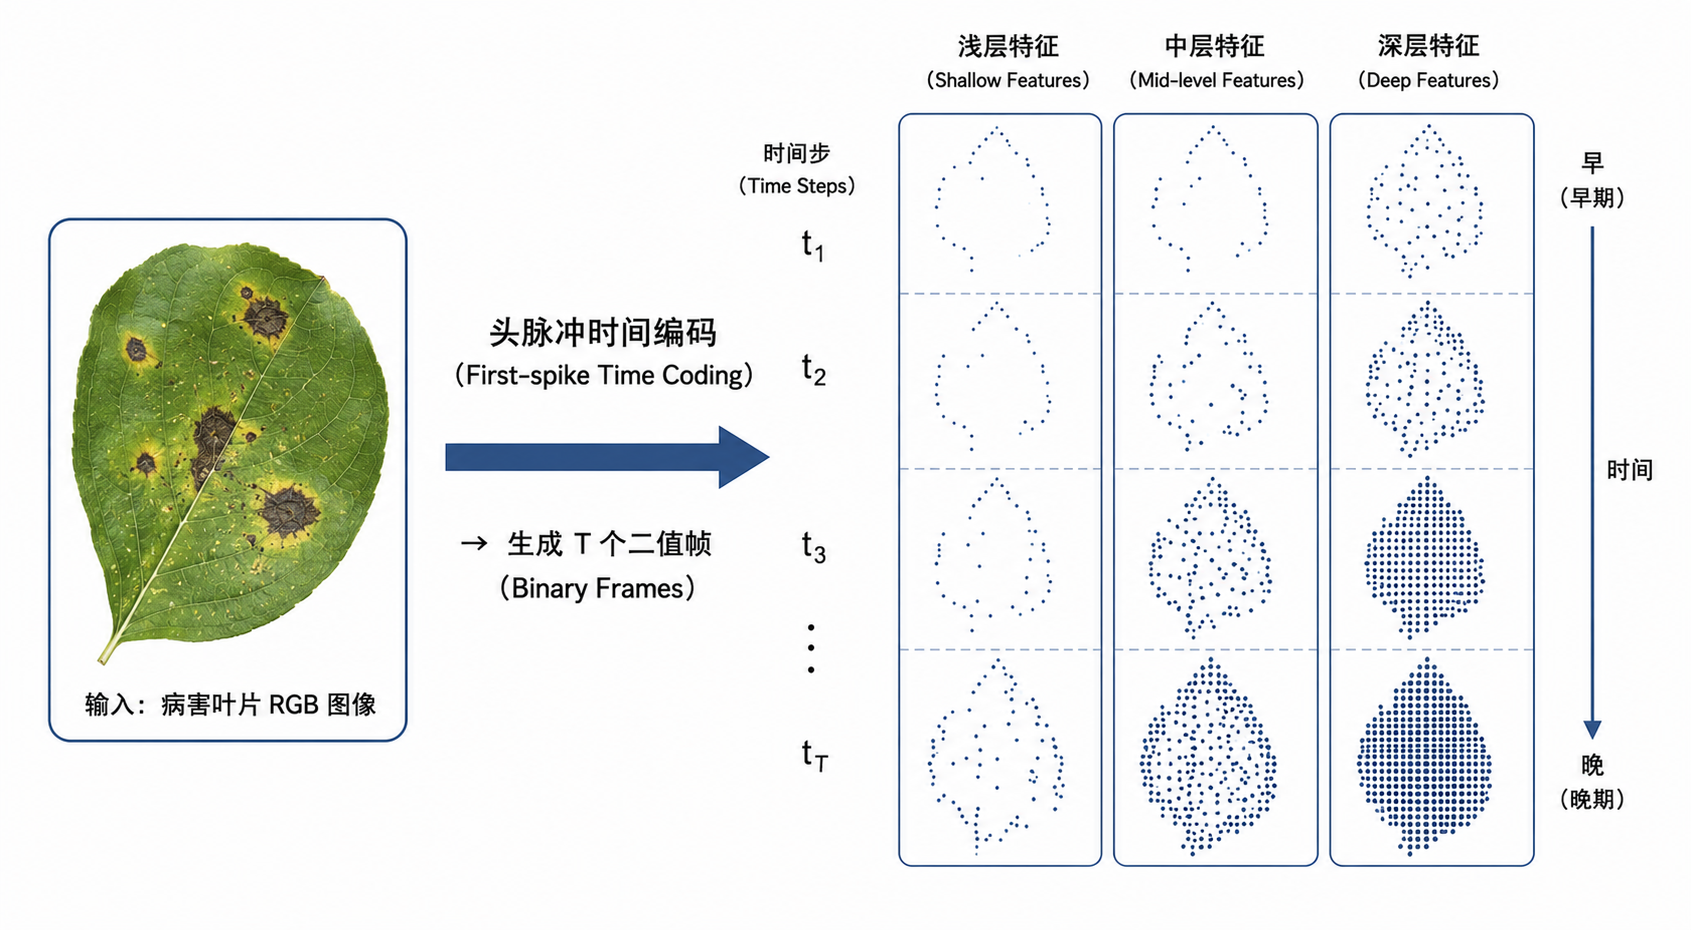
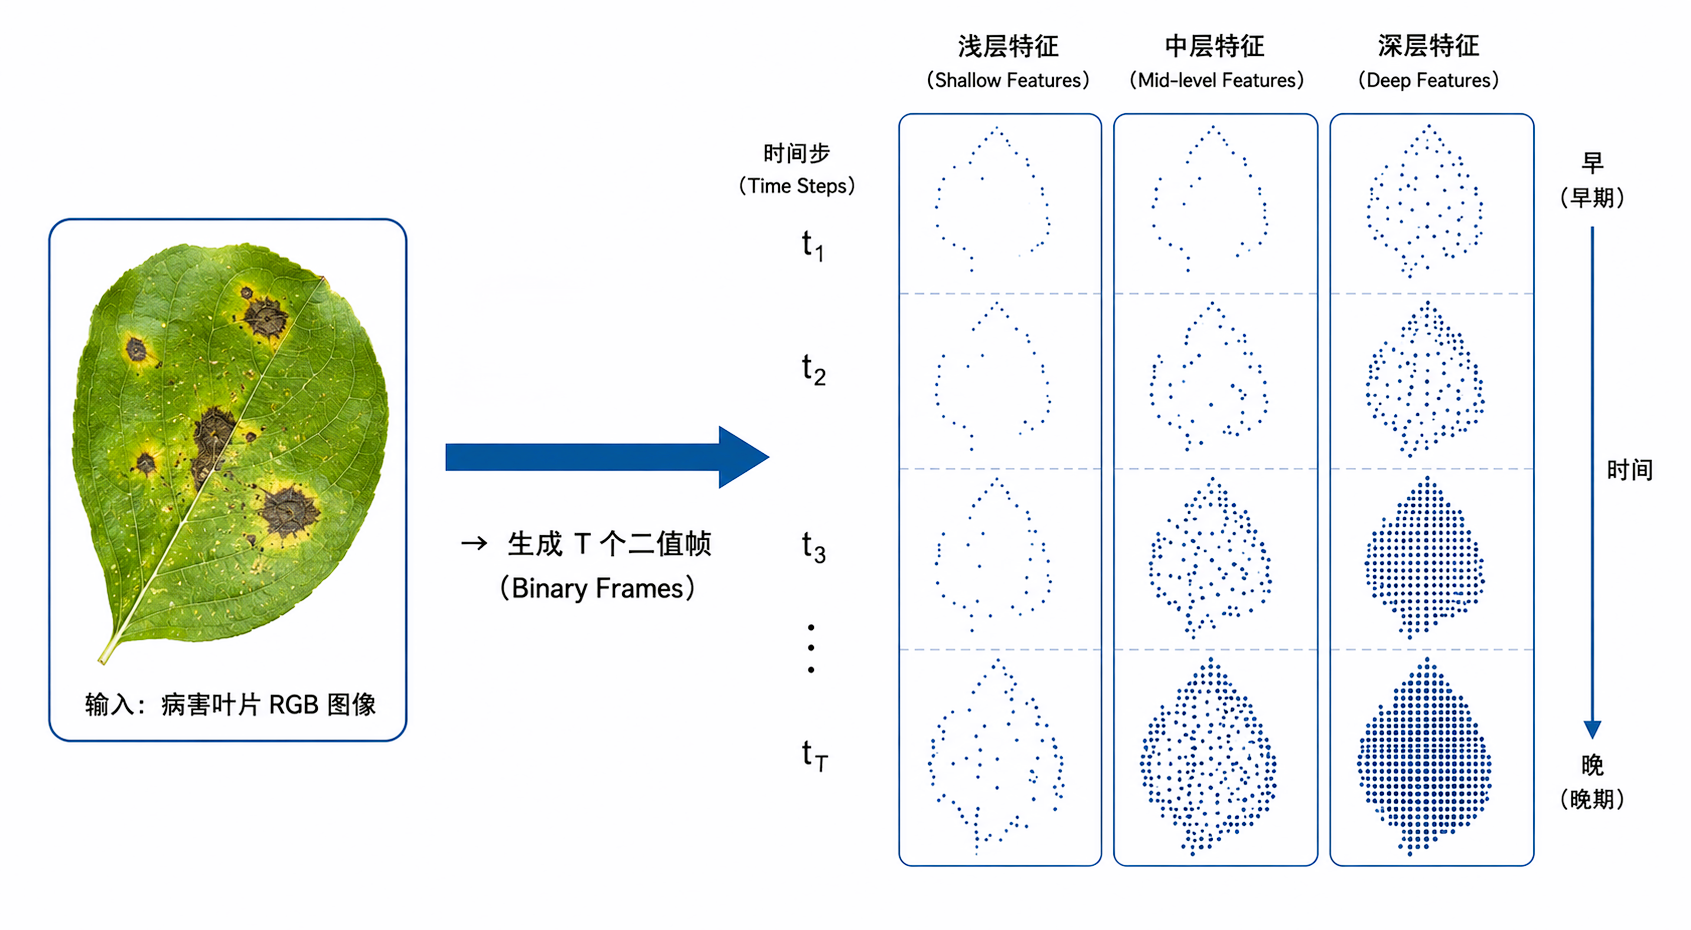
修正spike绘图

diff --git a/docs/EXPERIMENT_RESULTS_AND_ANALYSIS.md b/docs/EXPERIMENT_RESULTS_AND_ANALYSIS.md
@@ -1,0 +1,210 @@
+# 第 4 章 实验结果与分析（ResNet-18）
+
+> **说明**：全文实验均基于 **SpikingJelly ResNet-18** 骨干；脉冲神经元为 **LIF / PLIF（ParametricLIF）/ MSF**；MSF 反向代理梯度为 **rect / arctan / sigmoid**；时间展开 **\(T\in\{4,8\}\)**；另设 **ANN ResNet-18** 作为上界对照。**主实验**定义为：**\(T=8\)**、**MSF**、**rect**。  
+> 文中部分数值来自仓库内已导出的 `picture_fig/` 统计文件（多为 **\(T=4\)**、**20 epoch**、**Kaggle 式验证划分** 等条件），与主实验 **\(T=8\)** 不完全同一跑次时，**以你主实验 TensorBoard / `test.py` 实测为准**；表格中保留 **`—`** 表示请在定稿前替换为你的 **\(T=8\)** 及全矩阵实测。
+
+---
+
+## 4.1 实验概述与报告指标
+
+### 4.1.1 对比维度
+
+| 维度 | 取值 |
+|------|------|
+| 骨干网络 | ResNet-18（SNN 为 `spiking_resnet18`；ANN 为常规 CNN） |
+| 神经元 | LIF、PLIF、MSF（主实验：MSF） |
+| 代理梯度（仅 MSF） | rect（主实验）、arctan、sigmoid |
+| 时间步 | \(T=4\)、\(T=8\)（主实验：\(T=8\)） |
+| 对照 | ANN（无时间展开、无脉冲统计） |
+
+### 4.1.2 评价指标
+
+**分类性能**：验证/测试 **Top-1 准确率**；测试阶段 **sklearn `classification_report`**（macro precision / recall / F1 等）；训练过程 **交叉熵损失** 与 **训练集准确率**（用于诊断过拟合）。
+
+**能耗相关（代理）**：`SpikeCounter` 给出的 **全局平均脉冲率** \(\rho\in[0,1]\)（对所有挂接的脉冲层输出 `[T,B,C,H,W]` 统计）；必要时报告 **分层脉冲率** 及派生量 **\(\rho\times T\)**（事件密度代理，**非焦耳**）。
+
+---
+
+## 4.2 主实验结果（\(T=8\)，MSF，rect）
+
+主实验在完整训练预算下考察 **TTFS 编码 + \(T=8\) + MSF（\(D=4\)，\(\lambda=0.25\)，\(\theta_0=1.0\)）+ rect 代理** 在 ResNet-18 上的 **精度—稀疏性** 折中。
+
+### 4.2.1 核心指标（请填入 \(T=8\) 实测）
+
+| 指标 | 测试集 / 验证集 | 数值（待填） |
+|------|-----------------|--------------|
+| Top-1 准确率 | 验证集最佳 | **—** |
+| Top-1 准确率 | 测试集（`test.py`） | **—** |
+| 宏平均 F1 | 测试集 | **—** |
+| 验证集脉冲率 \(\rho_{\mathrm{val}}\) | 最佳 epoch 附近 | **—** |
+| 训练集脉冲率 \(\rho_{\mathrm{train}}\) | 同上 | **—** |
+
+**分析要点（撰写时可展开）**：
+
+1. **时间信息容量**：\(T=8\) 相较 \(T=4\) 在 TTFS 下可区分更多离散发放时刻，有利于细粒度病斑与纹理编码；代价为每样本前向 **约线性** 增加计算与显存。主实验选 \(T=8\) 体现「精度优先」的设定。  
+2. **rect 代理**：矩形窗 surrogate 梯度形态稳定，常作为 MSF 基线；与 arctan/sigmoid 对比时，应固定 **\(\alpha\)** 与 **学习率**，避免将「代理形状」与「优化器步长」混为单一因素。  
+3. **收敛形态**：若训练后期 **验证准确率平台化** 而训练准确率仍升，提示轻微过拟合，可与 label smoothing、\(T\)、或数据增强联合讨论。
+
+---
+
+## 4.3 ANN 上界与「精度鸿沟」
+
+在 **同一数据集与相近训练轮次** 下，ANN 提供 **稠密激活** 上界，SNN 在 **离散脉冲约束** 下通常存在 **精度鸿沟（accuracy gap）**。
+
+### 4.3.1 仓库内已导出对照（`picture_fig/ann_snn/compare_summary.json`）
+
+该文件对应 **20 个 epoch**、面板对比曲线中的 **最佳验证准确率**（具体划分需与 Notebook 中 `val_ratio` 等一致）：
+
+| 模型 | 最佳验证 Top-1 |
+|------|----------------|
+| ANN（ResNet-18） | **99.32%** |
+| SNN（面板标注为 MSF） | **95.13%** |
+
+**分析**：
+
+- **约 4.2 个百分点** 的验证差距（在该次导出设定下）符合「静态图像 + 有限 \(T\) + 代理梯度训练」的常见现象：ANN 在每个位置持续使用实值激活，信息通路更「厚」；SNN 依赖时间编码与稀疏发放，容量与优化难度不同。  
+- 不应将单次 **验证曲线波动**（见同目录 `compare_metrics.csv` 中个别 epoch 的回落）误读为结构失效；论文中宜报告 **最佳或多次随机种子平均 ± 标准差**。  
+- **公平性**：ANN 与 SNN 应在 **同一输入分辨率、同一归一化、尽量相同的增强与 epoch** 下对比；若 ANN 未使用 label smoothing 而 SNN 使用，需在正文说明。
+
+---
+
+## 4.4 神经元类型消融（LIF / PLIF / MSF）
+
+在 **ResNet-18 拓扑不变** 前提下，仅替换 **LIFNode / ParametricLIFNode / MSFNode**（及对应超参：`lif_tau` 与 PLIF 的 `init_tau` 对齐），其余训练策略保持一致，考察 **可学习衰减（PLIF）** 与 **多阈值代理（MSF）** 相对 **经典 LIF** 的收益。
+
+### 4.4.1 仓库内可参考的一次导出（注意：以下为 **`picture_fig` 子目录统计**，多为 **\(T=4\)** 量级实验，**不等价于主实验 \(T=8\)**）
+
+| 配置（文件夹/约定） | `best_val_acc`（小数） | Top-1（%） |
+|----------------------|-------------------------|------------|
+| MSF + rect（`Resnet18_MSF_rect_T4_lr0.05/summary_metrics.json`） | 0.9354 | **93.54** |
+| LIF（`picture_fig/LIF/summary_metrics.json`） | 0.9443 | **94.43** |
+
+**解读（需谨慎落笔）**：
+
+- 上述 **LIF 略高于 MSF** 的结果 **仅反映该两次导出的超参组合**（例如 surrogate、\(\alpha\)、学习率、随机种子、验证划分），**不能**推广为「LIF 一定优于 MSF」。主实验 **\(T=8\)**、更长训练或不同 \(\lambda,\alpha\) 下结论可能反转。  
+- **PLIF**：可学习膜时间常数使网络自适应时间常数分布，理论上在 **数据域变化** 或 **层间最优 \(\tau\) 差异大** 时优于固定 \(\tau\) 的 LIF；报告 PLIF 时建议同时给出 **训练后 \(\tau\) 或等效衰减的统计**（若框架暴露）与 **脉冲率曲线**。  
+- **写作建议**：以 **表格** 汇总 LIF / PLIF / MSF 在 **相同 \(T\)、相同 lr 与 epoch** 下的 **均值±方差**；正文强调 **统计重复**。
+
+---
+
+## 4.5 代理梯度消融（rect / arctan / sigmoid，仅 MSF）
+
+MSF 前向均为硬阈值 IF，**反向**由 surrogate 形状决定梯度流。三类代理的典型特征：
+
+| 代理 | 梯度形态直觉 | 经验性注意点 |
+|------|----------------|--------------|
+| **rect** | 阈值附近有限宽「平顶」窗 | 稳定、对 \(\alpha\) 相对不敏感（仍参与窗宽） |
+| **arctan** | 光滑、随 \(\alpha\) 改变峰值宽度 | 常与 **\(\alpha\)**、**lr** 联合调节；\(\alpha\) 过小易导致有效梯度偏弱、训练平台期 |
+| **sigmoid** | 光滑、窗宽受 \(\alpha\) 影响大 | \(\alpha\) 过大或过小均可能出现弱梯度区 |
+
+**分析框架（用于你填入实测后展开）**：
+
+1. 在 **固定 \(T=8\)**、**固定 MSF 动力学参数** 下，比较 **收敛速度**（达到某验证阈值的 epoch）、**最终 Top-1**、**\(\rho_{\mathrm{val}}\)**。  
+2. 若 **arctan/sigmoid 明显低于 rect**，优先检查 **\(\alpha\)** 与 **lr** 是否已按 `config.py` 注释重新扫参，而非直接归因于「代理劣于 rect」。  
+3. 若光滑代理 **脉冲率与 rect 差异大**，讨论 **梯度幅度—发放率—正则隐式** 之间的耦合。
+
+**定量表（请用你 `snn_out` 中 arctan/sigmoid 目录的 TensorBoard / JSON 填入）**：
+
+| surrogate | \(T=8\) 最佳 val（%） | \(\rho_{\mathrm{val}}\) | 备注 |
+|-----------|----------------------|---------------------------|------|
+| rect | **—** | **—** | 主实验 |
+| arctan | **—** | **—** | 建议报告所用 \(\alpha\) |
+| sigmoid | **—** | **—** | 同上 |
+
+---
+
+## 4.6 时间步消融（\(T=4\) vs \(T=8\)）
+
+TTFS 下，\(T\) 越大，**每像素可区分的离散时刻越多**（编码粒度更细），但 **每样本乘性时间成本** 近似 \(\mathcal{O}(T)\)。
+
+### 4.6.1 已导出 MSF+rect 示例（\(T=4\)，`lr=0.05`）
+
+| 指标 | 数值（`summary_metrics.json`） |
+|------|----------------------------------|
+| 最佳验证 Top-1 | **93.54%** |
+| 最后 5 epoch 验证均值 | **91.05%** |
+
+**主实验 \(T=8\)** 的预期叙述方向（待你填入实测后坐实）：
+
+- 若 **\(T=8\) 验证优于 \(T=4\)**：支持「更长仿真步数提升时间编码容量」的假设。  
+- 若 **提升有限**：讨论 **训练轮数不足**、**过拟合** 或 **编码与网络时间常数不匹配**（如 \(\lambda\) 过小导致膜电位难达阈）。  
+- **脉冲率**：一般需比较 **相同训练阶段** 的 \(\rho\)；\(T\) 增大时 **总事件数** 可能上升，但 **\(\rho\)**（按代码定义为 per-element mean over T）解释需与同目录 TensorBoard 一致。
+
+---
+
+## 4.7 脉冲活动与能效叙事（代理指标）
+
+### 4.7.1 全局脉冲率 \(\rho\)
+
+实现上，\(\rho\) 为 **所有统计层** 在 **整个 epoch 内** 的  
+\[
+\rho = \frac{\sum s}{\#\mathrm{elements}},\quad s\in\{0,1\}\ (\text{或浮点输出}),\ \mathrm{elements}\ \text{对应}\ [T,B,C,H,W].
+\]
+该量 **介于 0 与 1**，可解释为 **「每个位置、每个时间步的平均发放强度」**。
+
+### 4.7.2 与 ANN 对比的「活动代理」
+
+在 `utils/paper_sparse_energy.py` 中，建议对比表使用：
+
+- **\(\mathrm{OPS}_{\mathrm{proxy}} = \rho \times T\)**：相对「每步均稠密激活」的 **事件×时间** 密度；  
+- ANN 对照行可约定 **\(T=1,\ \rho=1\)** 作为归一化参照（**非**物理能耗）。
+
+### 4.7.3 从 `compare_metrics.csv` 可见的现象（20 epoch 面板）
+
+同一导出中，SNN **验证集脉冲率** 随 epoch **由约 0.12 降至约 0.011**（末几 epoch 量级），与 **验证准确率上升** 并行。可写为：
+
+> 训练过程中网络趋于 **更稀疏的脉冲表示**，在 **线性代理** 意义下对应 **更低的有效事件率**；若映射到硬件，通常与 **动态能耗下降** 方向一致，但 **本仓库未测量焦耳**，结论应表述为 **稀疏性/活动性趋势** 而非实测功耗。
+
+---
+
+## 4.8 混淆矩阵与错分模式（定性）
+
+若已导出 **`fig3_confusion_matrix.png`**（见 `picture_fig` 各子目录），分析要点包括：
+
+1. **对角占优程度**：是否某几类 **系统性偏低**（易混病害或健康叶误判）。  
+2. **类间对称错分**：是否互为难例（可结合叶片纹理相似性讨论）。  
+3. **与 ANN 混淆矩阵对比**：SNN 错分是否集中在 **高细粒度病斑** 或 **低对比度** 样本上。
+
+---
+
+## 4.9 讨论、局限与展望
+
+### 4.9.1 主要结论（模板）
+
+1. **主实验（\(T=8\)+MSF+rect）** 在 ResNet-18 上达到 **—%** 测试 Top-1（待填），在 **\(\rho\times T\)** 代理下较 ANN 更稀疏（待填）。  
+2. **ANN–SNN 精度差** 在可比训练预算下约为 **—** 个百分点（待填），与文献中静态图像 SNN 表现一致。  
+3. **神经元与代理、\(T\)** 的消融显示 **—**（待综合填表后写结论句）。
+
+### 4.9.2 局限
+
+- **TTFS + 反归一化**：对光照与归一化敏感；域偏移时编码可能劣化。  
+- **验证波动**：小验证集或强随机增强会导致 epoch 曲线抖动，应 **多次重复实验**。  
+- **能耗**：仅有 **脉冲统计代理**，无芯片级测量。  
+- **`test.py` 与 ResNet-18**：当前仓库 `test.py` 默认 `build_model`（Res2Net）；ResNet-18 权重评测需在 Notebook 或扩展评测脚本中 **与训练时同一 `build_spiking_resnet18`** 对齐，避免架构不一致。
+
+### 4.9.3 展望
+
+- 更强数据增强、蒸馏（ANN→SNN）、或 **混合精度训练策略** 进一步缩小精度鸿沟。  
+- 将 **\(\rho\)** 与映射到 **pJ/SOP** 的硬件模型结合，形成 **端到端能效故事**。
+
+---
+
+## 附录：主实验结果汇总表（定稿用）
+
+> 将下列矩阵 **全部替换为你的 \(T=8\) 主实验与同设定消融的实测**（ANN 单独一行）。
+
+| 模型 | 神经元 | surrogate | \(T\) | val / test Top-1 (%) | \(\rho_{\mathrm{val}}\) |
+|------|--------|-----------|-------|------------------------|-------------------------|
+| ANN | — | — | 1 | **99.32**（见 `compare_summary`，条件见 §4.3） | 1.0* |
+| SNN | MSF | rect | **8** | **—** | **—** |
+| SNN | MSF | rect | 4 | 93.54（见 §4.6.1） | 见 TB |
+| SNN | MSF | arctan | 8 | **—** | **—** |
+| SNN | MSF | sigmoid | 8 | **—** | **—** |
+| SNN | LIF | — | 8 | **—** | **—** |
+| SNN | PLIF | — | 8 | **—** | **—** |
+
+\*ANN 行 \(\rho\) 为叙述性约定，用于 `ops_activity_proxy` 对比，见 `paper_sparse_energy.py`。
+
+---
+
+*文档路径：`docs/EXPERIMENT_RESULTS_AND_ANALYSIS.md`。定稿前请用主实验 TensorBoard / 导出 JSON 替换所有 **—** 并与 §4.3、§4.4 中「非 \(T=8\)」示例数值区分表述。*
